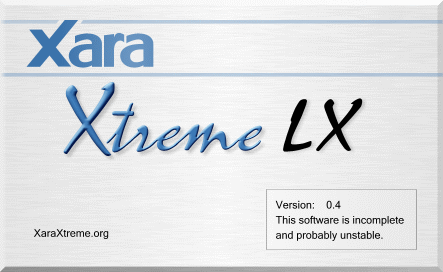
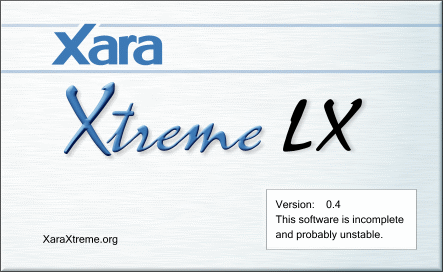
Fix splash screen
git-svn-id: svn://svn.xara.com/Trunk/XaraLX@1087 c9fdbc50-1c0f-0410-8134-ac6df33ab1bd

diff --git a/wxXtra/advsplash.cpp b/wxXtra/advsplash.cpp
@@ -1,0 +1,191 @@
+// $Id: doublebuffer.cpp 757 2006-04-01 16:04:45Z alex $
+/* @@tag:xara-cn-tp@@ THIRD PARTY COPYRIGHT */
+// The following line makes normalize.pl skip type fixing
+/* SKIPFIXTYPES: START */
+
+// This file is derived from CVSHEAD wxWidgets and is thus
+// under the wxWidgets / wxWindows license.
+//
+// Derived from wxWidgets splash.cpp, by Julian Smart
+
+#include "advsplash.h"
+#include <wx/splash.h>
+
+#if defined(__WXGTK20__)
+#include <gtk/gtk.h>
+#endif
+
+/*
+ * wxAdvSplashScreen
+ */
+
+#define wxSPLASH_TIMER_ID 9999
+
+IMPLEMENT_DYNAMIC_CLASS(wxAdvSplashScreen, wxFrame);
+
+BEGIN_EVENT_TABLE(wxAdvSplashScreen, wxFrame)
+    EVT_TIMER(wxSPLASH_TIMER_ID, wxAdvSplashScreen::OnNotify)
+    EVT_CLOSE(wxAdvSplashScreen::OnCloseWindow)
+END_EVENT_TABLE()
+
+/* Note that unless we pass a non-default size to the frame, SetClientSize
+ * won't work properly under Windows, and the splash screen frame is sized
+ * slightly too small.
+ */
+
+wxAdvSplashScreen::wxAdvSplashScreen(const wxBitmap& bitmap, long splashStyle, int milliseconds, wxWindow* parent, wxWindowID id, const wxPoint& pos, const wxSize& size, long style):
+    wxFrame(parent, id, wxEmptyString, wxPoint(0,0), wxSize(100, 100), style)
+{
+    // At least for GTK+ 2.0, this hint is not available.
+#if defined(__WXGTK20__)
+#if GTK_CHECK_VERSION(2,2,0)
+    gtk_window_set_type_hint(GTK_WINDOW(m_widget),
+                             GDK_WINDOW_TYPE_HINT_SPLASHSCREEN);
+#endif
+#endif
+
+    m_window = NULL;
+    m_splashStyle = splashStyle;
+    m_milliseconds = milliseconds;
+
+    m_window = new wxAdvSplashScreenWindow(bitmap, this, wxID_ANY, pos, size, wxNO_BORDER);
+
+    SetClientSize(bitmap.GetWidth()+2, bitmap.GetHeight()+2);
+
+    if (m_splashStyle & wxSPLASH_CENTRE_ON_PARENT)
+        CentreOnParent();
+    else if (m_splashStyle & wxSPLASH_CENTRE_ON_SCREEN)
+        CentreOnScreen();
+
+    if (m_splashStyle & wxSPLASH_TIMEOUT)
+    {
+        m_timer.SetOwner(this, wxSPLASH_TIMER_ID);
+        m_timer.Start(milliseconds, true);
+    }
+
+    Show(true);
+    m_window->SetFocus();
+#if defined( __WXMSW__ ) || defined(__WXMAC__)
+    Update(); // Without this, you see a blank screen for an instant
+#else
+    wxYieldIfNeeded(); // Should eliminate this
+#endif
+}
+
+wxAdvSplashScreen::~wxAdvSplashScreen()
+{
+    m_timer.Stop();
+}
+
+void wxAdvSplashScreen::OnNotify(wxTimerEvent& WXUNUSED(event))
+{
+    Close(true);
+}
+
+void wxAdvSplashScreen::OnCloseWindow(wxCloseEvent& WXUNUSED(event))
+{
+    m_timer.Stop();
+    this->Destroy();
+}
+
+/*
+ * wxAdvSplashScreenWindow
+ */
+
+BEGIN_EVENT_TABLE(wxAdvSplashScreenWindow, wxWindow)
+#ifdef __WXGTK__
+    EVT_PAINT(wxAdvSplashScreenWindow::OnPaint)
+#endif
+    EVT_ERASE_BACKGROUND(wxAdvSplashScreenWindow::OnEraseBackground)
+    EVT_CHAR(wxAdvSplashScreenWindow::OnChar)
+    EVT_MOUSE_EVENTS(wxAdvSplashScreenWindow::OnMouseEvent)
+END_EVENT_TABLE()
+
+wxAdvSplashScreenWindow::wxAdvSplashScreenWindow(const wxBitmap& bitmap, wxWindow* parent, wxWindowID id, const wxPoint& pos, const wxSize& size, long style):
+    wxWindow(parent, id, pos, size, style)
+{
+    m_bitmap = bitmap;
+
+#if !defined(__WXGTK__) && wxUSE_PALETTE
+    bool hiColour = (wxDisplayDepth() >= 16) ;
+
+    if (bitmap.GetPalette() && !hiColour)
+    {
+        SetPalette(* bitmap.GetPalette());
+    }
+#endif
+
+}
+
+// VZ: why don't we do it under wxGTK?
+#if !defined(__WXGTK__) && wxUSE_PALETTE
+    #define USE_PALETTE_IN_SPLASH
+#endif
+
+static void wxDrawSplashBitmap(wxDC& dc, const wxBitmap& bitmap, int WXUNUSED(x), int WXUNUSED(y))
+{
+#if 0
+    wxMemoryDC dcMem;
+
+#ifdef USE_PALETTE_IN_SPLASH
+    bool hiColour = (wxDisplayDepth() >= 16) ;
+
+    if (bitmap.GetPalette() && !hiColour)
+    {
+        dcMem.SetPalette(* bitmap.GetPalette());
+    }
+#endif // USE_PALETTE_IN_SPLASH
+
+    dcMem.SelectObject(bitmap);
+    dc.Blit(0, 0, bitmap.GetWidth(), bitmap.GetHeight(), & dcMem, 0, 0);
+    dcMem.SelectObject(wxNullBitmap);
+
+#ifdef USE_PALETTE_IN_SPLASH
+    if (bitmap.GetPalette() && !hiColour)
+    {
+        dcMem.SetPalette(wxNullPalette);
+    }
+#endif // USE_PALETTE_IN_SPLASH
+#endif
+
+	dc.DrawBitmap(bitmap, 0, 0);
+
+}
+
+void wxAdvSplashScreenWindow::OnPaint(wxPaintEvent& WXUNUSED(event))
+{
+    wxPaintDC dc(this);
+    if (m_bitmap.Ok())
+        wxDrawSplashBitmap(dc, m_bitmap, 0, 0);
+}
+
+void wxAdvSplashScreenWindow::OnEraseBackground(wxEraseEvent& event)
+{
+    if (event.GetDC())
+    {
+        if (m_bitmap.Ok())
+        {
+            wxDrawSplashBitmap(* event.GetDC(), m_bitmap, 0, 0);
+        }
+    }
+    else
+    {
+        wxClientDC dc(this);
+        if (m_bitmap.Ok())
+        {
+            wxDrawSplashBitmap(dc, m_bitmap, 0, 0);
+        }
+    }
+}
+
+void wxAdvSplashScreenWindow::OnMouseEvent(wxMouseEvent& event)
+{
+    if (event.LeftDown() || event.RightDown())
+        GetParent()->Close(true);
+}
+
+void wxAdvSplashScreenWindow::OnChar(wxKeyEvent& WXUNUSED(event))
+{
+    GetParent()->Close(true);
+}
+

diff --git a/wxXtra/advsplash.h b/wxXtra/advsplash.h
@@ -1,0 +1,76 @@
+// $Id: doublebuffer.h 751 2006-03-31 15:43:49Z alex $
+/* @@tag:xara-cn-tp@@ THIRD PARTY COPYRIGHT */
+// The following line makes normalize.pl skip type fixing
+/* SKIPFIXTYPES: START */
+
+// This file is derived from CVSHEAD wxWidgets and is thus
+// under the wxWidgets / wxWindows license.
+
+#ifndef __WXXTRA_ADVSPLASH_H
+#define __WXXTRA_ADVSPLASH_H
+
+#include <wx/wx.h>
+
+class wxAdvSplashScreenWindow;
+
+/*
+ * wxAdvSplashScreen
+ */
+
+class wxAdvSplashScreen: public wxFrame
+{
+public:
+    // for RTTI macros only
+    wxAdvSplashScreen() {}
+    wxAdvSplashScreen(const wxBitmap& bitmap, long splashStyle, int milliseconds,
+                   wxWindow* parent, wxWindowID id,
+                   const wxPoint& pos = wxDefaultPosition,
+                   const wxSize& size = wxDefaultSize,
+                   long style = wxSIMPLE_BORDER|wxFRAME_NO_TASKBAR|wxSTAY_ON_TOP);
+    ~wxAdvSplashScreen();
+
+    void OnCloseWindow(wxCloseEvent& event);
+    void OnNotify(wxTimerEvent& event);
+
+    long GetSplashStyle() const { return m_splashStyle; }
+    wxAdvSplashScreenWindow* GetSplashWindow() const { return m_window; }
+    int GetTimeout() const { return m_milliseconds; }
+
+protected:
+    wxAdvSplashScreenWindow*   m_window;
+    long                    m_splashStyle;
+    int                     m_milliseconds;
+    wxTimer                 m_timer;
+
+    DECLARE_DYNAMIC_CLASS(wxAdvSplashScreen)
+    DECLARE_EVENT_TABLE()
+    DECLARE_NO_COPY_CLASS(wxAdvSplashScreen)
+};
+
+/*
+ * wxAdvSplashScreenWindow
+ */
+
+class wxAdvSplashScreenWindow: public wxWindow
+{
+public:
+    wxAdvSplashScreenWindow(const wxBitmap& bitmap, wxWindow* parent, wxWindowID id, const wxPoint& pos = wxDefaultPosition, const wxSize& size = wxDefaultSize, long style = wxNO_BORDER);
+
+    void OnPaint(wxPaintEvent& event);
+    void OnEraseBackground(wxEraseEvent& event);
+    void OnMouseEvent(wxMouseEvent& event);
+    void OnChar(wxKeyEvent& event);
+
+    void SetBitmap(const wxBitmap& bitmap) { m_bitmap = bitmap; }
+    wxBitmap& GetBitmap() { return m_bitmap; }
+
+protected:
+    wxBitmap    m_bitmap;
+
+    DECLARE_EVENT_TABLE()
+    DECLARE_NO_COPY_CLASS(wxAdvSplashScreenWindow)
+};
+
+
+
+#endif // __WXXTRA_ADVSPLASH_H

diff --git a/wxOil/camresource.cpp b/wxOil/camresource.cpp
@@ -120,7 +120,7 @@ ResIDToString * CamResource::pHash = NULL;
 ResIDToString * CamResource::pObjectNameHash = NULL;
 wxFileSystem * CamResource::pwxFileSystem = NULL;
 wxBitmap * CamResource::pSplashBitmap= NULL;
-wxSplashScreen * CamResource::pSplashScreen = NULL;
+wxAdvSplashScreen * CamResource::pSplashScreen = NULL;
 wxString * CamResource::pResourcePath = NULL;
 CamResourceRemember * CamResource::pFirstRemember=NULL;
 BOOL CamResource::HaveCheckedResourcePath = FALSE;
@@ -1714,27 +1714,27 @@ BOOL CamResource::Splash()
 {
 	TRACET(_T("CamResource::Splash() called"));
 
-	
-	wxImage Image;
-
 	if (pSplashBitmap) delete pSplashBitmap;
 	pSplashBitmap=NULL;
 
+	
+	pSplashBitmap = new wxBitmap();
+	if (!pSplashBitmap) return FALSE;
+
 	// We'd like to get the bitmap name from the resources, but, urm, we haven't yet
 	// loaded them
-	if (!LoadwxImage(Image, _T("startup-lx.png") ))
+	if (!LoadwxBitmap(*pSplashBitmap, _T("startup-lx.png") ))
 	{
 		TRACE(_T("Cannot load splash bitmap - possible resource compilation error?"));
 		return TRUE;
 	}
-	
-	pSplashBitmap = new wxBitmap(Image);
-	if (!pSplashBitmap) return FALSE;
 
-	pSplashScreen = new wxSplashScreen(*pSplashBitmap,
+	if (!pSplashBitmap->Ok()) return FALSE;
+
+	pSplashScreen = new wxAdvSplashScreen(*pSplashBitmap,
           wxSPLASH_CENTRE_ON_SCREEN | wxSPLASH_NO_TIMEOUT,
           0, NULL, -1, wxDefaultPosition, wxDefaultSize,
-          wxSIMPLE_BORDER
+          wxNO_BORDER
 #if !defined (_DEBUG)
 		  |wxSTAY_ON_TOP // Only stay on top in non-debug builds - too annoying for preinit debugging
 #endif

diff --git a/wxOil/camresource.h b/wxOil/camresource.h
@@ -113,7 +113,7 @@ service marks of Xara Group Ltd. All rights in these marks are reserved.
 class CCLexFile;
 class wxFSFile;
 class wxBimtap;
-class wxSplashScreen;
+class wxAdvSplashScreen;
 class wxHelpProvider;
 
 typedef UINT32 ResourceID;
@@ -250,7 +250,7 @@ private:
 	static CamResourceRemember * pFirstRemember;
 
 	static wxBitmap * pSplashBitmap;
-	static wxSplashScreen * pSplashScreen;
+	static wxAdvSplashScreen * pSplashScreen;
 
 	static ResourceStringToBitmap * pBitmapHash;
 

diff --git a/wxXtra/wxXtra.h b/wxXtra/wxXtra.h
@@ -14,3 +14,4 @@
 #include "combog.h"
 #include "odcombo.h"
 #include "platform.h"
+#include "advsplash.h"
